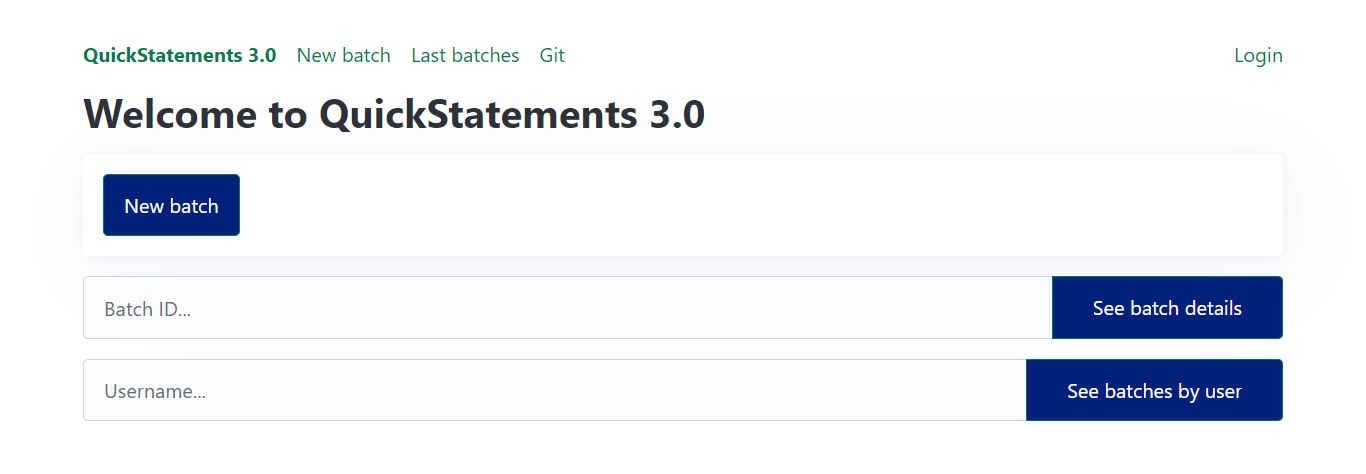
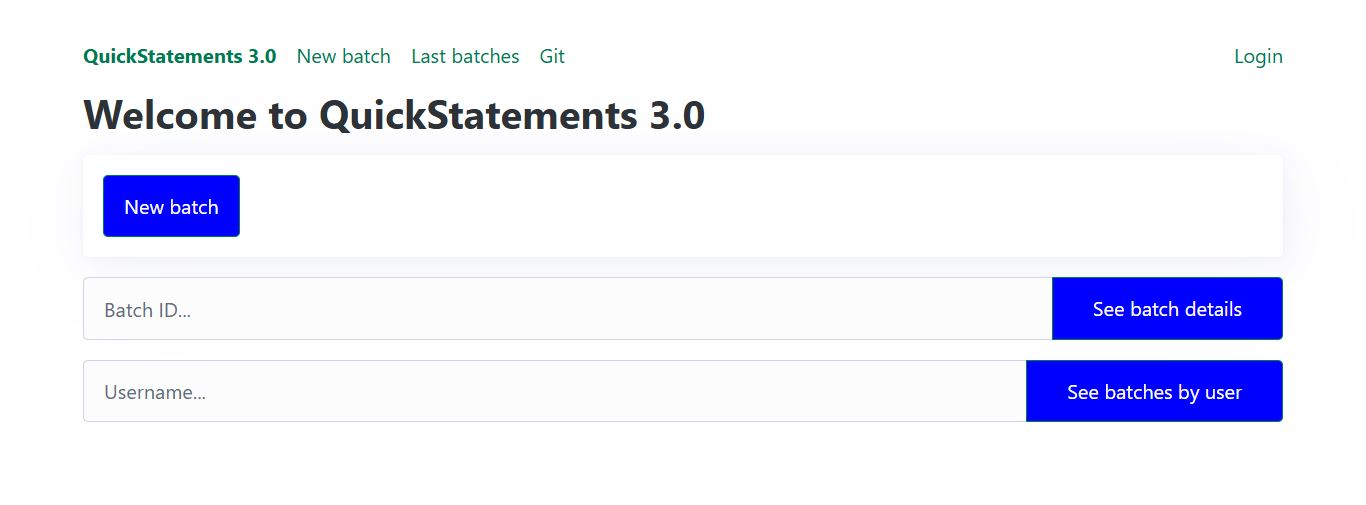
implemented feedback on migration, css, and readme

diff --git a/src/web/templates/layout.html b/src/web/templates/layout.html
@@ -1,58 +1,60 @@
 {% load static %}
 
-<!DOCTYPE HTML>
+<!DOCTYPE html>
 <html>
+  <head>
+    <meta charset="utf-8" />
+    <meta name="viewport" content="width=device-width, initial-scale=1" />
+    <meta name="color-scheme" content="light dark" />
+    {% block head %}{% endblock head %}
+    <link rel="stylesheet" href="{% static 'pico.jade.min.css' %}" />
+    <link
+      rel="stylesheet"
+      href="https://cdn.jsdelivr.net/npm/@picocss/pico@2/css/pico.colors.min.css"/>
 
-<head>
-  <meta charset="utf-8">
-  <meta name="viewport" content="width=device-width, initial-scale=1">
-  <meta name="color-scheme" content="light dark">
-  <link rel="stylesheet" href="{% static 'pico.jade.min.css' %}">
-  <link
-  rel="stylesheet"
-  href="https://cdn.jsdelivr.net/npm/@picocss/pico@2/css/pico.colors.min.css">
-  <script src="{% static 'htmx.v2.0.0.min.js' %}"></script>
-  <title>QuickStatements 3.0</title>
-  <style>
-    /* automatically add the spinner */
-    img.htmx-indicator {
-      content: url("{% static 'spinner.svg' %}");
-      width: 32px;
-      height: 32px;
-    }
-
-    {% block css %}
-    {% endblock %}
     
-  </style>
-</head>
+    <script src="{% static 'htmx.v2.0.0.min.js' %}"></script>
+    <title>QuickStatements 3.0</title>
+    <style>
+      /* automatically add the spinner */
+      img.htmx-indicator {
+        content: url("{% static 'spinner.svg' %}");
+        width: 32px;
+        height: 32px;
+      }
 
-<body>
-  <main class="container">
-    <nav>
-      <ul>
-        <li><a href="{% url 'home' %}"><strong>QuickStatements 3.0</strong></a></li>
-        <li><a href="{% url 'new_batch' %}">New batch</a></li>
-        <li><a href="">Last batches</a></li>
-        <li><a href="https://github.com/WikiMovimentoBrasil/quickstatements3">Git</a></li>
-      </ul>
-      <ul>
-        {% if user.is_anonymous %}
-        <li><a href="">Login</a></li>
-        {% else %}
-        <li><a href="">User:{{user}}</a></li>
-        <li><a href="">Your last batches</a></li>
-        {% endif %}
-      </ul>
-    </nav>
-    {% block content %}
-    {% endblock content %}
-  </main>
+      {% block css %}
+      {% endblock %}
+    </style>
+  </head>
 
-  {% block scripts %}
-  {% endblock scripts %}
+  <body>
+    <main class="container">
+      <nav>
+        <ul>
+          <li>
+            <a href="{% url 'home' %}"><strong>QuickStatements 3.0</strong></a>
+          </li>
+          <li><a href="{% url 'new_batch' %}">New batch</a></li>
+          <li><a href="">Last batches</a></li>
+          <li>
+            <a href="https://github.com/WikiMovimentoBrasil/quickstatements3"
+              >Git</a
+            >
+          </li>
+        </ul>
+        <ul>
+          {% if user.is_anonymous %}
+          <li><a href="">Login</a></li>
+          {% else %}
+          <li><a href="">User:{{user}}</a></li>
+          <li><a href="">Your last batches</a></li>
+          {% endif %}
+        </ul>
+      </nav>
+      {% block content %} {% endblock content %}
+    </main>
 
-
-</body>
-
+    {% block scripts %} {% endblock scripts %}
+  </body>
 </html>

diff --git a/src/web/templates/index.html b/src/web/templates/index.html
@@ -1,25 +1,28 @@
 {% extends "layout.html" %}
-
+{% load static %}
+{% block head %}
+<link rel="stylesheet" href="{% static 'css/index.css' %}">
+{% endblock head %}
 {% block content %}
 
 <h1> Welcome to QuickStatements 3.0 </h1>
 
 <article>
-  <a role="button" href="{% url 'new_batch' %}"> New batch </a>
+  <a class="submit-button" role="button" href="{% url 'new_batch' %}"> New batch </a>
 </article>
 
 
 <form id="batchForm">
   <fieldset role="group">
     <input id="batchInput" type="number" placeholder="Batch ID..." oninput="updateBatchForm()" required />
-    <input type="submit" value="See batch details" />
+    <input class="submit-button" type="submit" value="See batch details" />
   </fieldset>
 </form>
 
 <form id="userForm">
   <fieldset role="group">
     <input id="userInput" type="text" placeholder="Username..." oninput="updateUserForm()" required />
-    <input type="submit" value="See batches by user" />
+    <input class="submit-button" type="submit" value="See batches by user" />
   </fieldset>
 </form>
 

diff --git a/src/core/migrations/0001_initial.py b/src/core/migrations/0001_initial.py
@@ -1,0 +1,53 @@
+# Generated by Django 5.0.8 on 2024-09-28 20:13
+
+import django.db.models.deletion
+from django.db import migrations, models
+
+
+class Migration(migrations.Migration):
+
+    initial = True
+
+    dependencies = [
+    ]
+
+    operations = [
+        migrations.CreateModel(
+            name='Batch',
+            fields=[
+                ('id', models.BigAutoField(auto_created=True, primary_key=True, serialize=False, verbose_name='ID')),
+                ('name', models.CharField(max_length=255)),
+                ('user', models.CharField(db_index=True, max_length=128)),
+                ('status', models.IntegerField(choices=[(-2, 'Stopped'), (-1, 'Blocked'), (0, 'Initial'), (1, 'Running'), (2, 'Done')], db_index=True, default=0)),
+                ('message', models.TextField(blank=True, null=True)),
+                ('created', models.DateTimeField(auto_now_add=True)),
+                ('modified', models.DateTimeField(auto_now=True, db_index=True)),
+            ],
+            options={
+                'verbose_name': 'Batch',
+                'verbose_name_plural': 'Batches',
+            },
+        ),
+        migrations.CreateModel(
+            name='BatchCommand',
+            fields=[
+                ('id', models.BigAutoField(auto_created=True, primary_key=True, serialize=False, verbose_name='ID')),
+                ('action', models.IntegerField(choices=[(0, 'CREATE'), (1, 'ADD'), (2, 'REMOVE'), (3, 'MERGE')], default=0)),
+                ('index', models.IntegerField()),
+                ('json', models.JSONField()),
+                ('status', models.IntegerField(choices=[(-1, 'Error'), (0, 'Initial'), (1, 'Running'), (2, 'Done')], db_index=True, default=0)),
+                ('raw', models.TextField()),
+                ('message', models.TextField(blank=True, null=True)),
+                ('created', models.DateTimeField(auto_now_add=True)),
+                ('modified', models.DateTimeField(auto_now=True)),
+                ('data_type_verified', models.BooleanField(default=False)),
+                ('response_json', models.JSONField(default=dict)),
+                ('batch', models.ForeignKey(on_delete=django.db.models.deletion.CASCADE, to='core.batch')),
+            ],
+            options={
+                'verbose_name': 'Batch Command',
+                'verbose_name_plural': 'Batch Commands',
+                'index_together': {('batch', 'index')},
+            },
+        ),
+    ]

diff --git a/outreachy/qts-index.md b/outreachy/qts-index.md
@@ -4,10 +4,7 @@
 
 ## Table of Contents
 - [Features](#features)
-- [Installation](#installation)
 - [Usage](#usage)
-- [Makefile Commands](#makefile-commands)
-- [Contributing](#contributing)
 - [Support](#license)
 
 ## Features
@@ -25,41 +22,6 @@ The following features are available on QuickStatements's home page:
 - **Username Search**: This search feature makes access of batches by a particular user possible.
 - **Login**: The login feature allows users to log into the website so as to create and/or manage their batches. 
 
-## Installation
-
-### Prerequisites
-- **Docker**: Docker must be installed and running on your machine. For Windows users, WSL2 (Windows Subsystem for Linux) must be integrated with the Docker desktop.
-- **Make**: Make must also be installed, as it is needed to run the tasks defined in the Makefile.
-
-### Steps
-1. Clone the repository and change directory to the root folder of the project:
-   ```bash
-   git clone https://github.com/DevUju/qts3-wmb-test.git
-   cd qts3-wmb-test
-   ```
-
-2. Build the Docker image:
-   ```bash
-   make build
-   ```
-
-3. Start the container and enter the shell:
-   ```bash
-   make shell
-   ```
-
-4. Run the application inside the Docker container:
-   ```bash
-   make run
-   ```
-
-The application is accessible at:
-```
-http://localhost:8765
-```
-
-### Environment Setup
-Place the `env` file in the `etc` directory, and set up your environment variables using `etc/env.SAMPLE` as a guide. 
 
 ## Usage
 
@@ -79,17 +41,6 @@ Place the `env` file in the `etc` directory, and set up your environment variabl
 ### Logging In
 A user must log in to access the full functionality of QuickStatements, especially in relation to creating and managing batches.
 
-## Makefile Commands
-The project also includes a Makefile which manages the following commands:
-
-- **make build**: Builds Docker image.
-- **make shell**: Runs and accesses the Docker container in an interactive shell.
-- **make run**: Start the QuickStatements application inside the Docker container.
-
-## Contributing
-To contribute to QuickStatements, do the following: 
-1. Fork the project https://github.com/WikiMovimentoBrasil/qts3-wmb-test.
-2. Clone the source code in your computer
 
 ## Support
 If you have any question about the project or there are modifications that you would want to implement, kindly open an issue on the repository.
